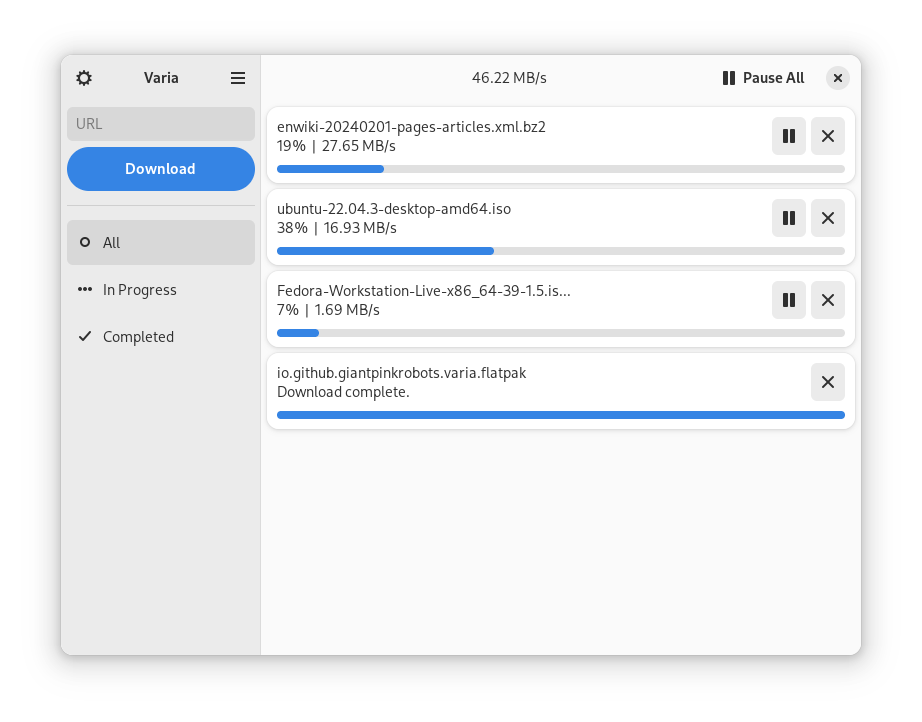
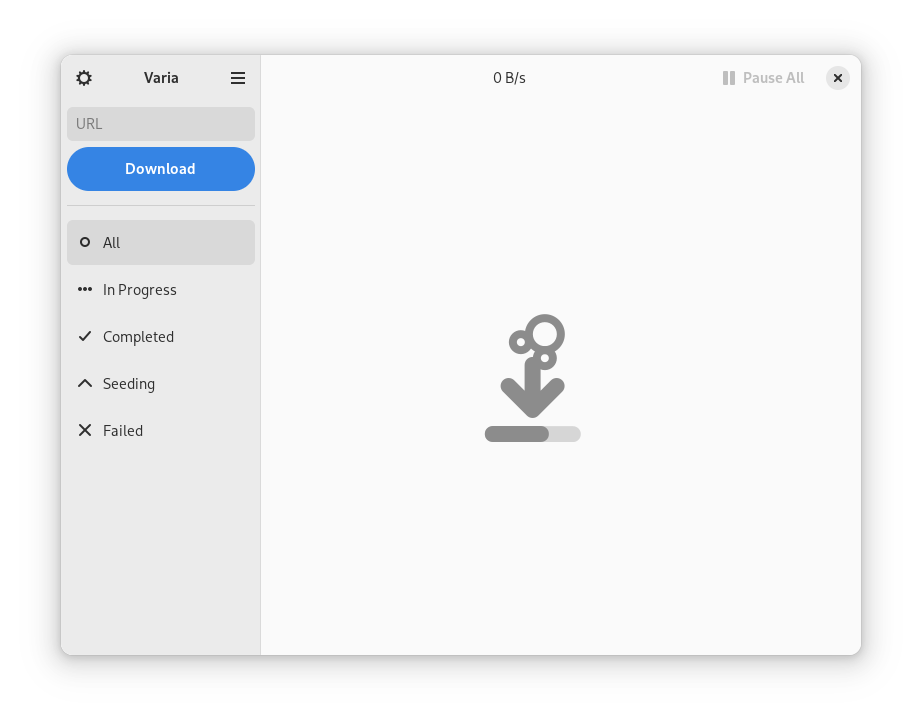
Sync for v2024.5.7
- Notification when download is routed through the browser extension
- Authentication setting switch is fixed
- Hindi language file name fixed
- New screenshots added

diff --git a/docs/index.html b/docs/index.html
@@ -70,11 +70,11 @@ function toggleWindowsInstructions(id) {
     </div>
 
     <div id='windows-instructions' class='linux-instructions hidden'>
-        <div style="display: inline-block"><a href="https://github.com/giantpinkrobots/varia/releases/download/v2024.2.29/varia-windows-setup-amd64.exe" class="pill-button pill-button-ltblue"><img src="downloadIcon.png" class="button-icon" style="filter: brightness(10%);">&nbsp;&nbsp;&nbsp;&nbsp;Installer</a></div>
+        <div style="display: inline-block"><a href="https://github.com/giantpinkrobots/varia/releases/download/v2024.5.7/varia-windows-setup-amd64.exe" class="pill-button pill-button-ltblue"><img src="downloadIcon.png" class="button-icon" style="filter: brightness(10%);">&nbsp;&nbsp;&nbsp;&nbsp;Installer</a></div>
 
         &nbsp;&nbsp;&nbsp;&nbsp;&nbsp;
 
-        <div style="display: inline-block"><a href="https://github.com/giantpinkrobots/varia/releases/download/v2024.2.29/varia-windows-portable-amd64.exe" class="pill-button pill-button-ltblue"><img src="downloadIcon.png" class="button-icon" style="filter: brightness(10%);">&nbsp;&nbsp;&nbsp;&nbsp;Portable version</a></div>
+        <div style="display: inline-block"><a href="https://github.com/giantpinkrobots/varia/releases/download/v2024.5.7/varia-windows-portable-amd64.exe" class="pill-button pill-button-ltblue"><img src="downloadIcon.png" class="button-icon" style="filter: brightness(10%);">&nbsp;&nbsp;&nbsp;&nbsp;Portable version</a></div>
         
         <br>
         <br>
@@ -97,48 +97,43 @@ function toggleWindowsInstructions(id) {
     <br>
 
     <h2>Download quickly.</h2>
-    <br>
     <p>Utilizing the aria2 backend, Varia helps you take advantage of your connection<br>speed to its fullest when it comes to downloading files.</p>
 
     <br>
-    <p>/</p>
-    <br>
 
     <h2>Pick up where you left off.</h2>
-    <br>
     <p>With Varia, you can pause your downloads and continue downloading them<br>afterwards, even after rebooting your computer.</p>
 
     <br>
-    <p>/</p>
-    <br>
 
-    <h2>Slow down if need be.</h2>
-    <br>
-    <p>Although Varia can download files very fast, a speed limit can be assigned to it<br>as well, which will prevent it from saturating your connection speed if you're<br>doing something else on the side.</p>
+    <h2>Connect it to your browser.</h2>
+    <p>Varia integrates seamlessly with Firefox and Chrome/ium through<br>an extension. It can route all downloads to itself.</p>
 
     <br>
-    <p>/</p>
+
+    <h2>Powerful underneath.</h2>
+    <p>Schedule your downloads with a powerful scheduler function.<br>Use basic authentication and import cookies from a file.<br>Enable remote mode to control a remote aria2c instance.</p>
+
+    <br>
+
+    <h2>Torrent support.</h2>
+    <p>You can use Varia to download torrents easily as well.</p>
+
     <br>
 
     <h2>Use it easily.</h2>
-    <br>
     <p>Varia has a very simple and easy to understand user interface.</p>
 
     <br>
-    <p>/</p>
-    <br>
 
     <h2>It's all open.</h2>
-    <br>
     <p>Varia is open source software, which means the building blocks of it are publicly<br>available. You can take a look at it and contribute to it.</p>
 
-    <br>
     <br>
     <br>
 
     <hr class="solid">
 
-    <br>
     <br>
     <br>
     <br>

diff --git a/src/download/listen.py b/src/download/listen.py
@@ -54,7 +54,7 @@ def listen_to_aria2(self, variaapp):
                     and ((any(item in new_download_files for item in downloads_in_frontend_files)) == False) ): # Make sure it's not a duplicate
                 if not download_item_to_be_added.is_torrent:
                     print('Download added directly to aria2c, adding it to the UI: ' + download_item_to_be_added.files[0].uris[0]["uri"])
-                add_download_to_ui(self, download_item_to_be_added)
+                add_download_to_ui(self, download_item_to_be_added, variaapp)
 
         if currently_downloading == True:
             self.shutdown_action.set_enabled(True)
@@ -73,11 +73,14 @@ def listen_to_aria2(self, variaapp):
 
         GLib.timeout_add(2000, listen_to_aria2, self, variaapp)
 
-def add_download_to_ui(self, download_item_to_be_added):
+def add_download_to_ui(self, download_item_to_be_added, variaapp):
     if download_item_to_be_added.is_torrent:
         download_item_url = "magnet:?xt=urn:btih:" + download_item_to_be_added.info_hash
     else:
         download_item_url = download_item_to_be_added.files[0].uris[0]["uri"].split("?")[0]
+
+    notification = Gio.Notification.new(download_item_to_be_added.name)
+    variaapp.send_notification(None, notification)
 
     objectlist = create_actionrow(self, download_item_url)
     download_thread = DownloadThread(self, download_item_url, *objectlist, download_item_to_be_added, None)

diff --git a/src/window/sidebar.py b/src/window/sidebar.py
@@ -207,12 +207,17 @@ def show_about(app, variaapp, self, variaVersion):
     dialog.set_application_icon("io.github.giantpinkrobots.varia")
     dialog.set_translator_credits(_("translator-credits"))
     dialog.set_artists(["Jakub Steiner"])
-    dialog.set_release_notes_version("dev")
-    dialog.set_release_notes('''<p>dev</p>
+    dialog.set_release_notes_version("v2024.5.7")
+    dialog.set_release_notes('''
         <ul><li>Download scheduling: Start or stop downloading in given timespans.</li>
+        <li>cookies.txt file import support.</li>
+        <li>Remote timestamp support.</li>
+        <li>Options to filter by seeding and failed downloads in the sidebar.</li>
         <li>Quit on completion option.</li>
+        <li>Start in background mode option.</li>
         <li>Spanish language support.</li>
-        <li>Persian language support.</li></ul>''')
+        <li>Persian language support.</li>
+        <li>Hindi language support.</li></ul>''')
 
     dialog.present(self)
 

diff --git a/src/window/preferences.py b/src/window/preferences.py
@@ -279,12 +279,12 @@ def show_preferences(button, self, app):
     password_entry.set_text(self.appconf["auth_password"])
 
     if ((self.appconf["auth_username"] != "") and (self.appconf["auth_password"] != "")):
-        auth_expander_switch.set_active(True)
+        auth_expander_switch.set_sensitive(True)
     else:
-        auth_expander_switch.set_active(False)
+        auth_expander_switch.set_sensitive(False)
 
     if (self.appconf["auth"] == "1"):
-        auth_expander_switch.set_active("active")
+        auth_expander_switch.set_active(True)
 
     auth_expander.add_action(auth_expander_switch)
 

diff --git a/src/variamain.py b/src/variamain.py
@@ -1,4 +1,4 @@
-variaVersion = "dev"
+variaVersion = "v2024.5.7"
 
 import gi
 import sys
